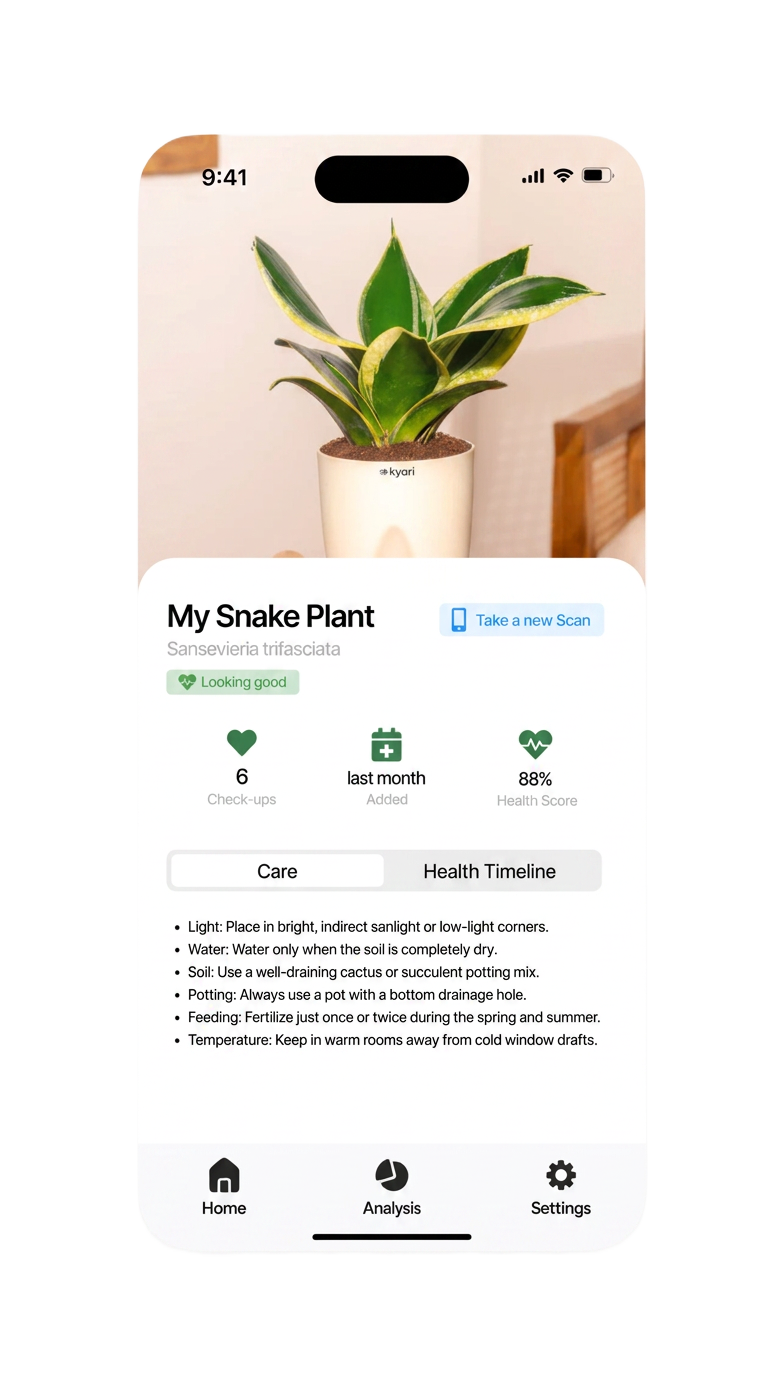
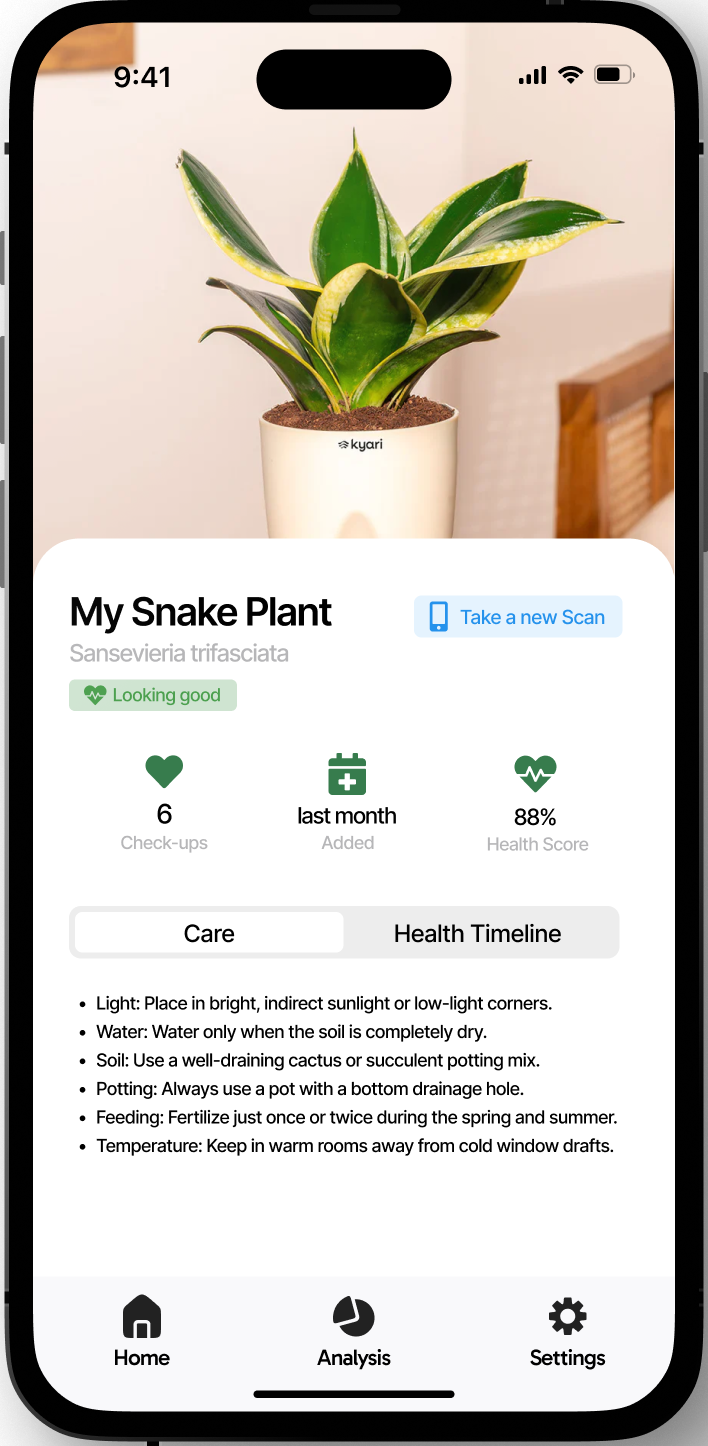
Updated landing page section design

diff --git a/website/src/routes/index.tsx b/website/src/routes/index.tsx
@@ -9,6 +9,10 @@ import {
   ArrowRight,
   Check,
   Star,
+  Droplets,
+  AlertTriangle,
+  TrendingUp,
+  Sprout,
 } from "lucide-react";
 
 import logo from "@/assets/logo.png";
@@ -101,24 +105,108 @@ function Hero() {
           <span>Loved by 2,400+ plant parents on the waitlist</span>
         </div>
 
-        <div className="relative mt-14 w-full">
-          <div className="flex items-end justify-center gap-2 sm:gap-6">
-            <PhoneShot
-              src={screenHome}
-              className="hidden w-[200px] translate-y-10 rotate-[-8deg] sm:block md:w-[240px]"
-            />
-            <PhoneShot
-              src={screenDetail}
-              className="w-[240px] md:w-[290px]"
-            />
-            <PhoneShot
-              src={screenHome}
-              className="hidden w-[200px] translate-y-10 rotate-[8deg] sm:block md:w-[240px]"
-            />
-          </div>
-        </div>
+        <HeroPhoneShowcase />
       </div>
     </section>
+  );
+}
+
+function HeroDetailCard({
+  icon,
+  iconBg,
+  title,
+  subtitle,
+  className = "",
+  faded = false,
+}: {
+  icon: React.ReactNode;
+  iconBg: string;
+  title: string;
+  subtitle: string;
+  className?: string;
+  faded?: boolean;
+}) {
+  return (
+    <div
+      className={`absolute flex max-w-[220px] items-center gap-3 rounded-2xl border border-white/80 bg-card/95 px-3.5 py-2.5 shadow-[0_12px_40px_-12px_rgba(33,33,33,0.18)] backdrop-blur-md sm:max-w-[240px] ${
+        faded ? "opacity-55 blur-[0.4px]" : ""
+      } ${className}`}
+    >
+      <div
+        className={`flex h-9 w-9 flex-none items-center justify-center rounded-full ${iconBg}`}
+      >
+        {icon}
+      </div>
+      <div className="min-w-0 text-left">
+        <p className="truncate text-[13px] font-semibold leading-tight text-foreground sm:text-sm">
+          {title}
+        </p>
+        <p className="truncate text-[11px] text-muted-foreground sm:text-xs">
+          {subtitle}
+        </p>
+      </div>
+    </div>
+  );
+}
+
+function HeroPhoneShowcase() {
+  return (
+    <div className="relative mx-auto mt-14 w-full max-w-3xl">
+      <div className="relative flex min-h-[360px] items-end justify-center sm:min-h-[420px] md:min-h-[480px]">
+        <HeroDetailCard
+          icon={<Droplets className="h-4 w-4 text-sky-600" />}
+          iconBg="bg-sky-100"
+          title="Snake Plant needs water"
+          subtitle="Due today · Health 88%"
+          className="left-[-4%] top-[14%] flex max-w-[190px] rotate-[-5deg] sm:left-[2%] sm:top-[8%] sm:max-w-[240px] md:left-[-4%] md:top-[10%]"
+        />
+        <HeroDetailCard
+          icon={<AlertTriangle className="h-4 w-4 text-amber-600" />}
+          iconBg="bg-amber-100"
+          title="Low light detected"
+          subtitle="Move Peace Lily closer to window"
+          className="left-[-2%] top-[42%] hidden rotate-[-3deg] md:flex"
+          faded
+        />
+        <HeroDetailCard
+          icon={<Bell className="h-4 w-4 text-primary-dark" />}
+          iconBg="bg-primary/15"
+          title="3 plants need watering"
+          subtitle="Monstera, Pothos & Basil this week"
+          className="bottom-[18%] left-[0%] hidden rotate-[-2deg] lg:flex"
+        />
+
+        <HeroDetailCard
+          icon={<TrendingUp className="h-4 w-4 text-primary-dark" />}
+          iconBg="bg-primary/15"
+          title="Monstera health improved"
+          subtitle="92% after yesterday's scan"
+          className="right-[-4%] top-[12%] flex max-w-[190px] rotate-[4deg] sm:right-[0%] sm:top-[6%] sm:max-w-[240px] md:right-[-2%]"
+        />
+        <HeroDetailCard
+          icon={<ScanLine className="h-4 w-4 text-violet-600" />}
+          iconBg="bg-violet-100"
+          title="Species identified"
+          subtitle="Fiddle Leaf Fig · Dracaena marginata"
+          className="right-[-4%] top-[36%] hidden rotate-[3deg] md:flex"
+        />
+        <HeroDetailCard
+          icon={<Sprout className="h-4 w-4 text-primary-dark" />}
+          iconBg="bg-primary/15"
+          title="Green Thumb unlocked"
+          subtitle="Level 6 · 780 / 2,000 XP"
+          className="bottom-[14%] right-[2%] hidden rotate-[5deg] sm:flex md:right-[-3%]"
+          faded
+        />
+
+        <div className="relative z-10 translate-y-2 sm:translate-y-4">
+          <PhoneShot
+            src={screenHome}
+            className="w-[250px] sm:w-[290px] md:w-[330px]"
+          />
+        </div>
+      </div>
+    </div>
   );
 }
 